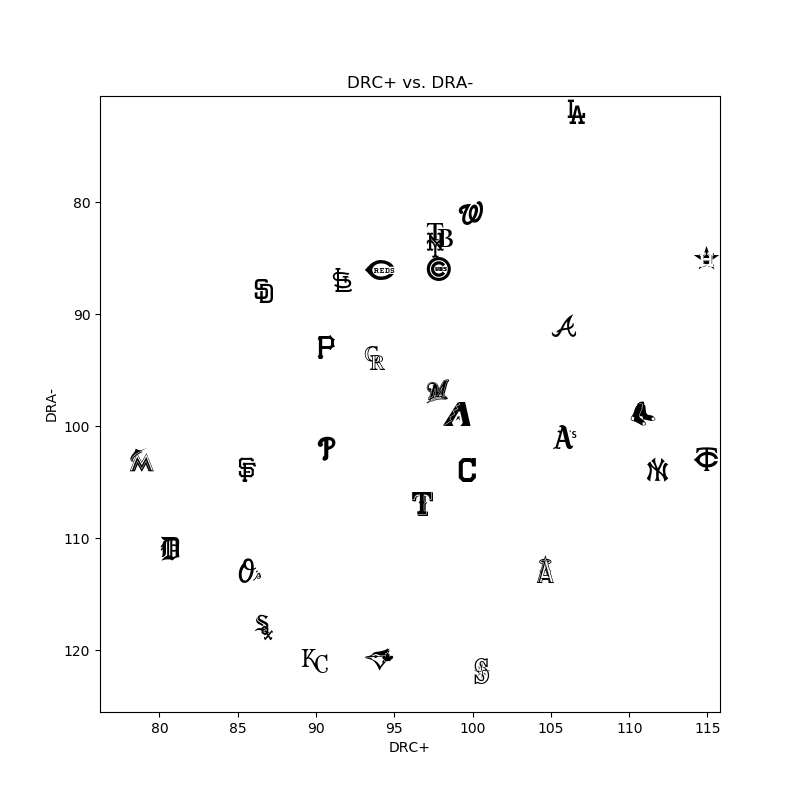
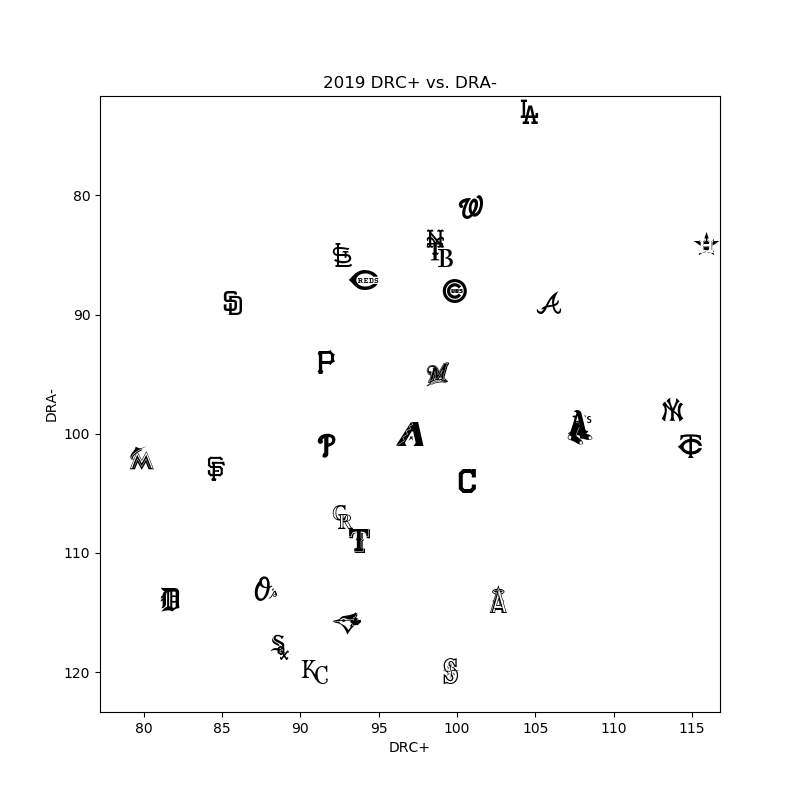
adding current season BP data to daily refresh

diff --git a/projects/SABR/baseballref.py b/projects/SABR/baseballref.py
@@ -60,7 +60,7 @@ def abbr_to_master(df, season):
 	abbr_df['Lg'] = df['Lg']
 	team_abbrs = []
 	for index, row in abbr_df.iterrows():
-		bref_abbr = row['Team'].title().strip().upper()
+		bref_abbr = row['Team'].title().strip().upper()[-3:]
 		lg = row['Lg'].title().strip().upper()
 		if bref_abbr == 'AVG':
 			continue

diff --git a/projects/SABR/refresh.py b/projects/SABR/refresh.py
@@ -112,6 +112,8 @@ def main(args):
 			print("### HISTORICAL LOAD COMPLETES ###")
 	if args.daily:
 		print("### RUNNING DAILY LOAD ###")
+		season_range = np.arange(int(CUR_SEASON), int(CUR_SEASON)+1)
+		load_team_historical('bp', season_range)
 		load_active_pitchers()
 		load_bref_team_sp()
 		load_batter_fp()
